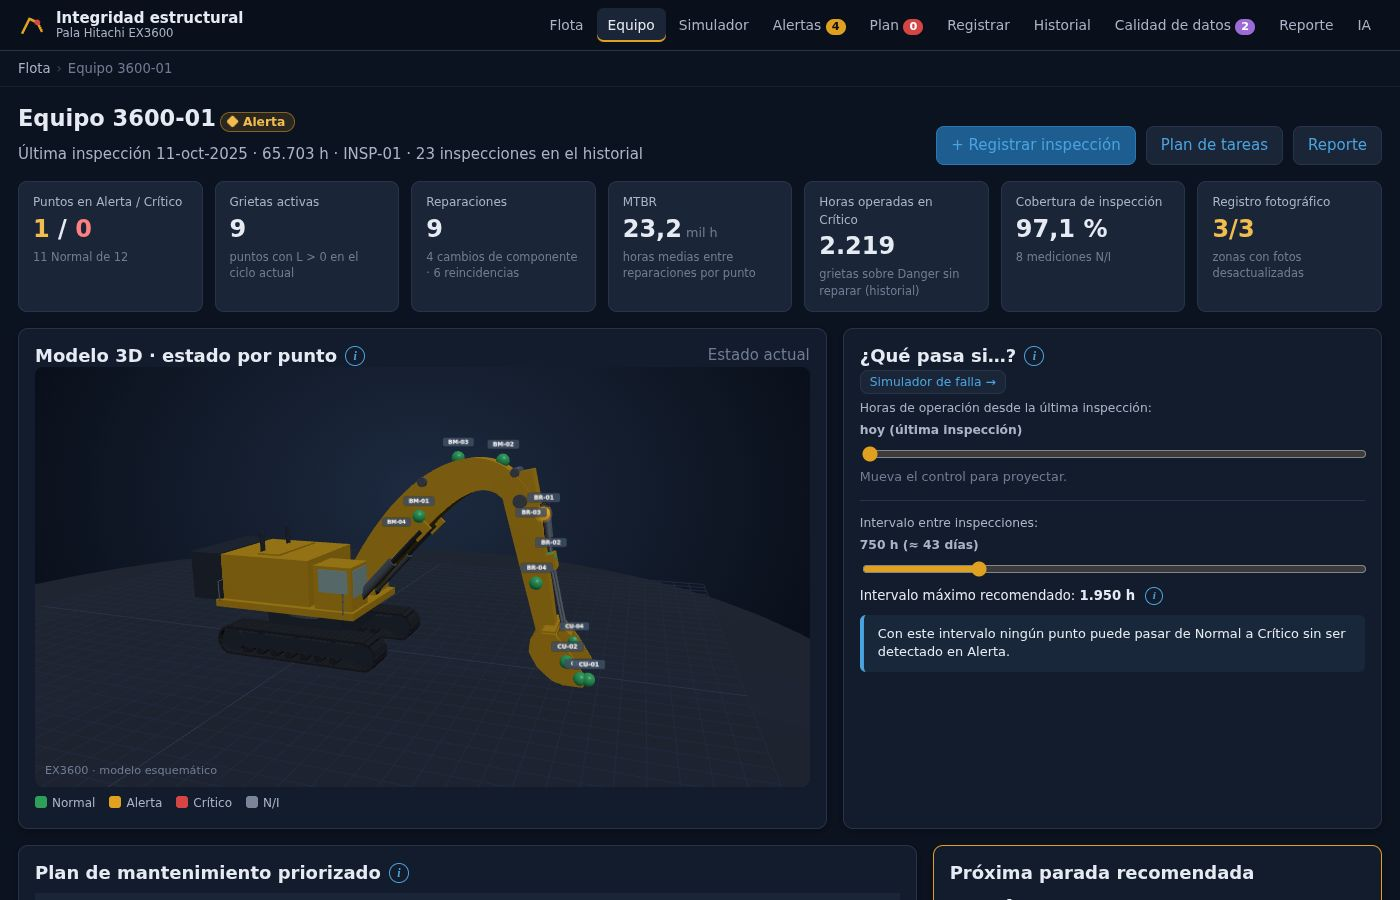
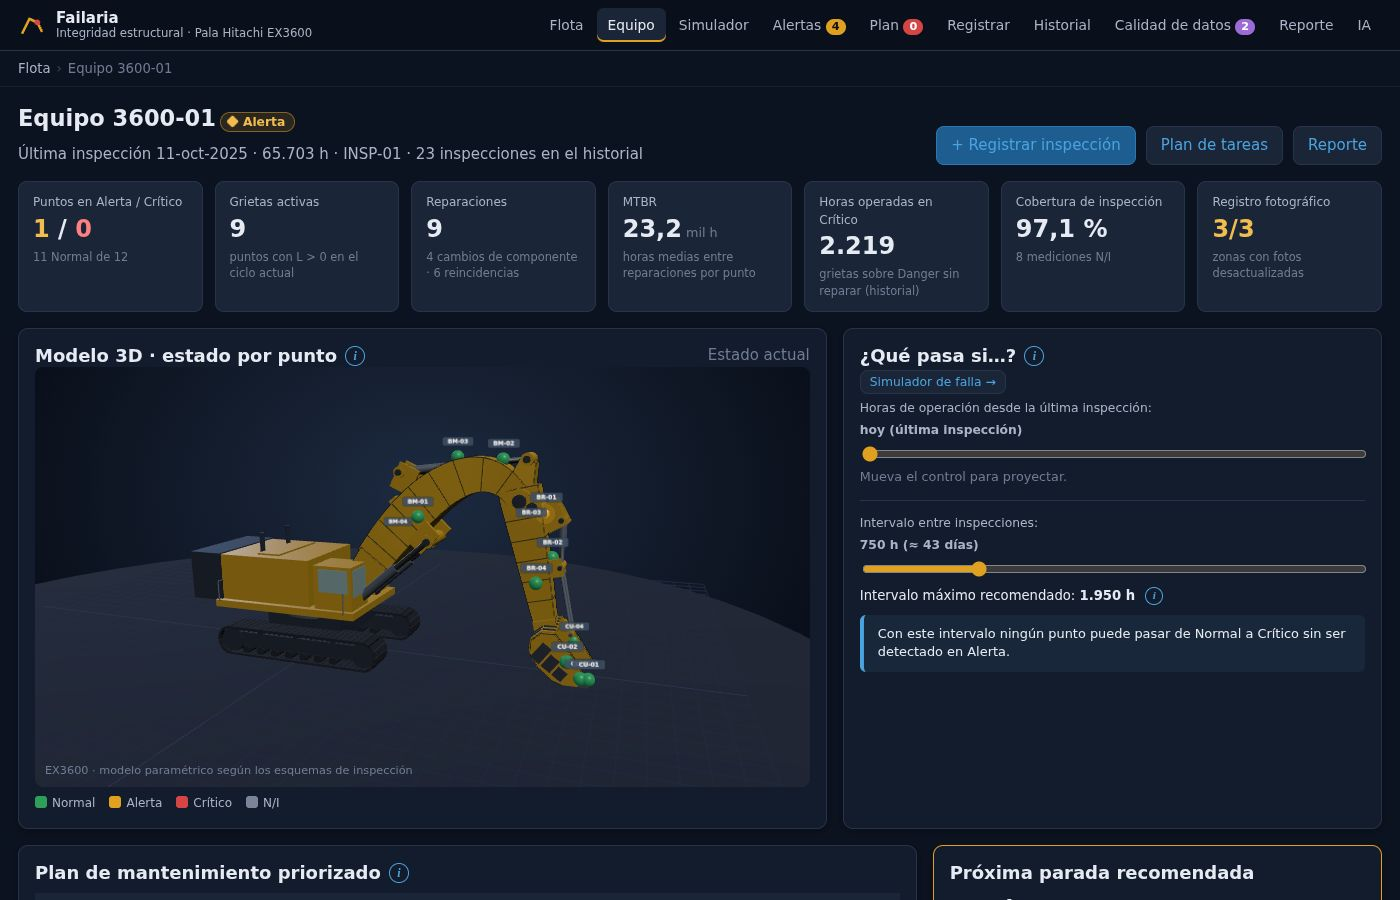
Capturas actualizadas (Failaria, pala paramétrica) y rótulo del modelo 3D

Changed region(s): [[0.1536, 0.4978, 0.43, 0.7467], [0.0307, 0.0, 0.215, 0.0622], [0.1229, 0.84, 0.2764, 0.8711]]

diff --git a/src/vistas/equipo.js b/src/vistas/equipo.js
@@ -31,7 +31,7 @@ export function render(root, app) {
   <div class="rejilla c-3-2">
     <div class="panel">
       <div class="fila entre"><h2 style="margin:0">Modelo 3D · estado por punto ${info('Clic en una esfera abre el punto. Arrastre para girar y rueda para acercar. Con el control «¿qué pasa si?» las esferas toman el estado proyectado.')}</h2><span class="tenue" id="simEtq"></span></div>
-      <div class="pala3d" id="p3d"><div class="cargando" style="padding-top:150px">Cargando modelo 3D…</div><div class="ayuda">EX3600 · modelo esquemático</div></div>
+      <div class="pala3d" id="p3d"><div class="cargando" style="padding-top:150px">Cargando modelo 3D…</div><div class="ayuda">EX3600 · modelo paramétrico según los esquemas de inspección</div></div>
       <div class="leyenda">${['Normal', 'Alerta', 'Crítico', 'N/I'].map((e) => `<span><i style="background:${COLOR[e]}"></i>${e}</span>`).join('')}</div>
     </div>
     <div class="panel">
